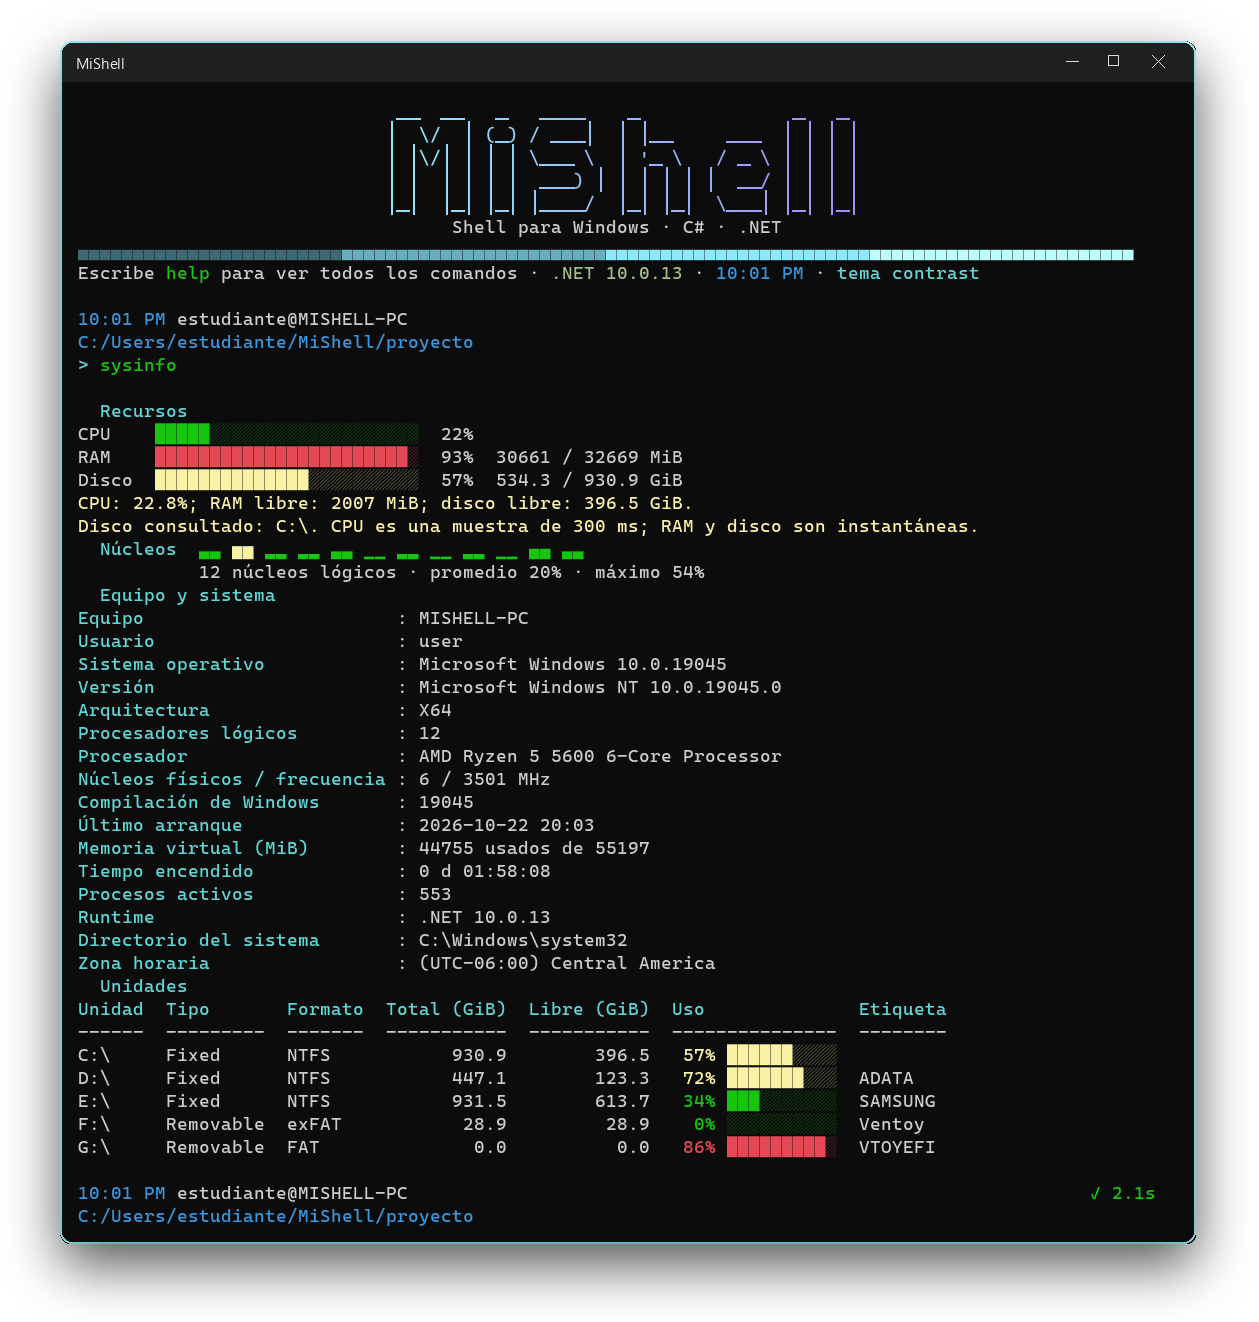
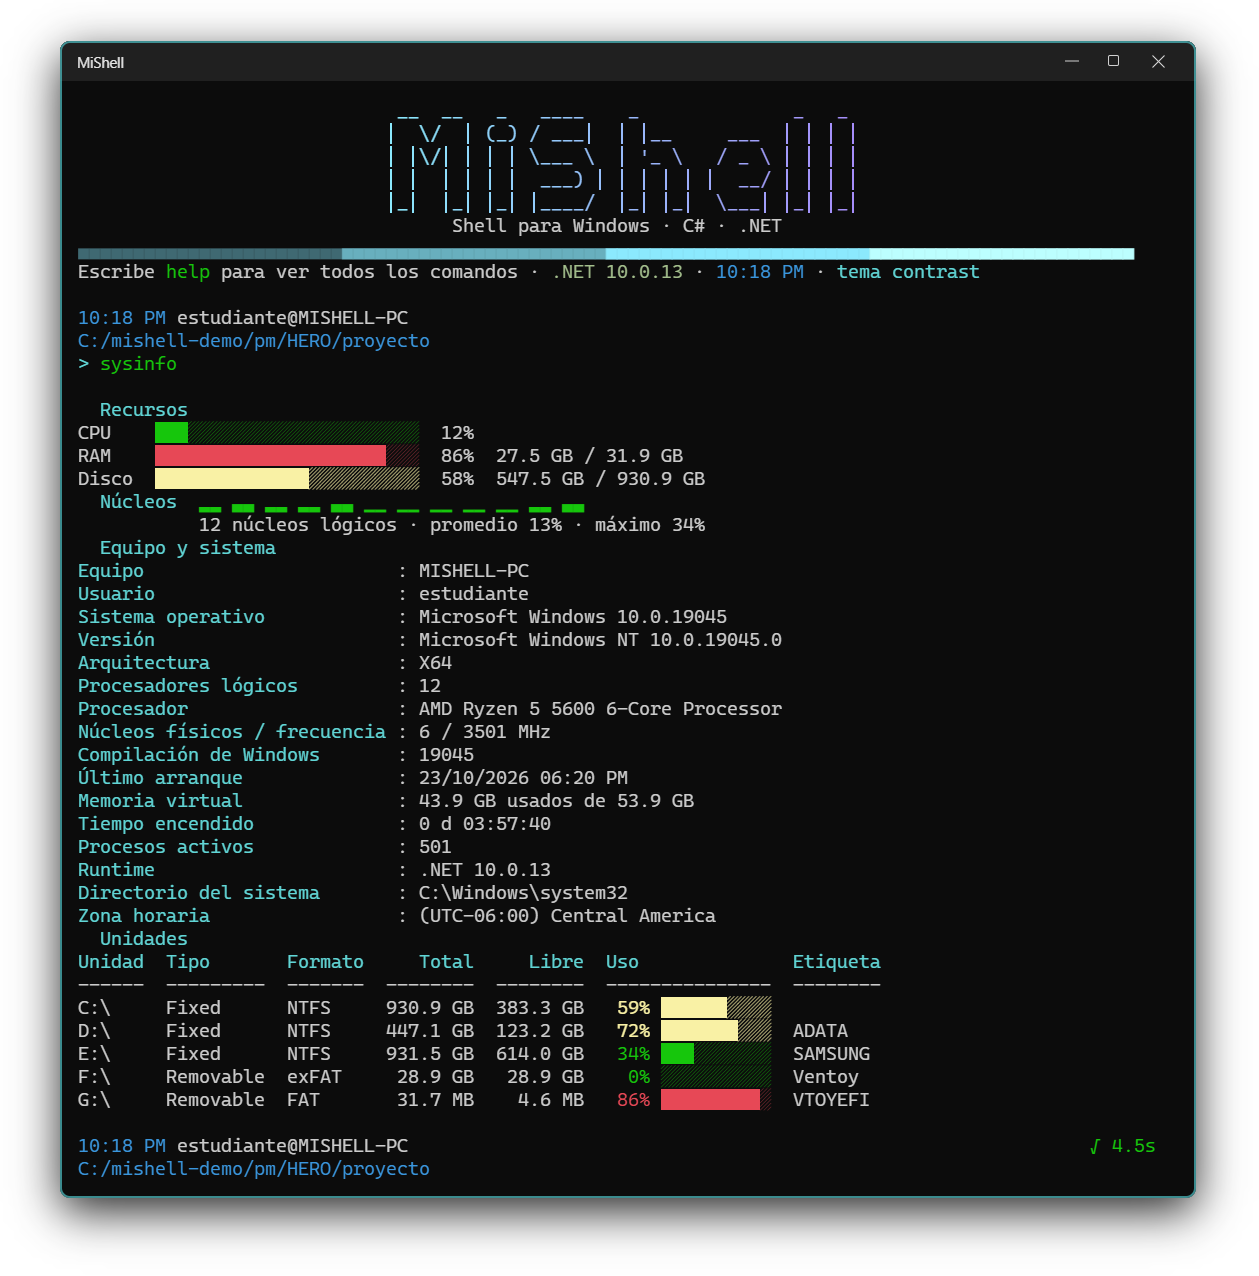
docs: README, validation and cover image updated for the new output and process control

diff --git a/README.md b/README.md
@@ -8,10 +8,12 @@ Ejecuta comandos internos y programas externos, conecta sus flujos con tuberías
 ## Características
 
 - **Ciclo interactivo completo:** prompt de tres líneas con hora, ruta y código de salida, historial, autocompletado con Tab y resaltado del comando mientras se escribe.
-- **Procesos reales:** crea, conecta y espera procesos de Windows; `trace on` muestra cada paso (crear, esperar, código de salida).
+- **Procesos reales:** crea, conecta y espera procesos de Windows; `trace on` muestra cada paso (crear, esperar, código de salida). `start`, `suspend`, `resume` y `kill` controlan los trabajos, y `ps` y `top` muestran el estado de cada proceso.
+- **Salida legible:** fechas `dd/MM/yyyy` con hora de 12 horas, tamaños siempre con unidad (B, KB, MB, GB) y mensajes que confirman lo ocurrido (`✓ Creado saludo.txt (11 B)`).
+- **Ayuda con ejemplos:** `help` muestra cada comando con su nombre en Linux y en Windows (`ls`/`dir`, `cat`/`type`, `rm`/`del`), `help <comando>` incluye ejemplos y `help pipes`, `help redirect`, `help jobs` y `help vars` explican los temas.
 - **Sintaxis de shell:** tuberías `|`, redirecciones `>`, `>>`, `<`, operadores `&&` y `||`, segundo plano con `&`, variables y scripts con `source`.
 - **Comandos internos detallados:** `ls`, `ps`, `top`, `sysinfo`, `which`, `cat` y otros entregan al menos la información de sus equivalentes de Windows, con barras y colores por tema.
-- **Código modular:** seis proyectos, un archivo por comando y 110 pruebas automatizadas.
+- **Código modular:** seis proyectos, un archivo por comando y 127 pruebas automatizadas.
 
 Shell educativo de Windows escrito en C#/.NET 10. Ejecuta comandos internos y programas externos, conecta sus flujos de entrada/salida y administra trabajos básicos.
 
@@ -31,6 +33,8 @@ help ps
 help syntax
 ls -l
 ps 10 --name dotnet --sort ram
+top
+start notepad.exe
 theme contrast
 source demo.mish
 exit
@@ -44,21 +48,24 @@ Cada comando interno se comparó con su equivalente de `cmd` y PowerShell para q
 
 | MiShell | Equivalente | Información que entrega |
 |---|---|---|
-| `ls` / `dir` | `dir`, `Get-ChildItem` | Modo (`d a r h s l`), fecha, tamaño, nombre, totales y espacio libre. `-l` añade creación y acceso; `-a` ocultos; `-h` tamaños legibles; `-R` recursivo; `-t`/`-S`/`-r` orden; patrones como `*.txt`. |
-| `ps` | `Get-Process` | PID, hilos, handles, sesión, CPU, memoria privada, RAM e inicio. `ps --id PID` muestra ruta, versión, prioridad y memoria pico/virtual. |
+| `ls` / `dir` | `dir`, `Get-ChildItem` | Modo (`d a r h s l`), fecha `dd/MM/yyyy` con hora de 12 horas, tamaño con unidad, nombre, totales y espacio libre. `-l` añade creación y acceso; `-a` ocultos; `-b` bytes exactos; `-R` recursivo; `-t`/`-S`/`-r` orden; patrones como `*.txt`. |
+| `ps` | `Get-Process`, `tasklist` | PID, estado (Ejecutando, En espera, Suspendido), hilos, CPU, memoria con unidad, % de RAM e inicio de todos los procesos legibles; `-l` añade handles, sesión y memoria privada; `--chart` y `--group` grafican la memoria. `ps --id PID` muestra ruta, versión, prioridad, núcleos permitidos y memoria pico/virtual. |
+| `top` | `top`, `htop` | Monitor en vivo: carga por núcleo, CPU y RAM con historial, procesos por estado y tabla que llena la ventana; `c m p n e` ordenan y `q` sale; `--pid N` vigila un proceso. |
+| `start`, `suspend`, `resume`, `kill`, `jobs`, `fg` | `Start-Process`, `Suspend-Process`, `taskkill`, `Get-Job` | Lanza un programa como trabajo, lo pausa y reanuda (equivalente de SIGSTOP/SIGCONT) y lo espera o termina. |
 | `sysinfo` | `systeminfo` | CPU, RAM y disco con barras, histograma de carga por núcleo, barras de uso por unidad, más equipo, SO, procesador, núcleos, arranque, memoria virtual y todas las unidades. |
 | `which` | `Get-Command`, `where` | Tipo (interno/externo), versión, tamaño, fecha y ruta; `-a` todas las coincidencias. |
 | `cat` / `type` | `type`, `Get-Content` | Varios archivos con encabezado, `-n`, `--head`, `--tail`. |
-| `mkdir` | `mkdir`, `New-Item` | Crea la ruta completa y muestra una tabla con lo creado. |
-| `cd`, `pwd` | `cd`, `Set-Location`, `Get-Location` | `cd -`, `/d`, rutas con espacios; `pwd -v` añade unidad y espacio libre. |
+| `mkdir` / `md` | `mkdir`, `New-Item` | Crea la ruta completa y muestra una tabla con lo creado. |
+| `rm` / `del`, `rmdir` / `rd` | `del`, `rd /s`, `Remove-Item` | Elimina archivos, patrones y carpetas; pide confirmación para carpetas con contenido (salvo `-f`) y nunca borra la raíz de una unidad ni la carpeta actual. |
+| `cd`, `pwd` | `cd`, `Set-Location`, `Get-Location` | `cd -`, `/d`, rutas con espacios; `pwd` muestra un encabezado `Path` como PowerShell y `pwd -v` añade unidad y espacio libre. |
 | `set`, `unset` | `set`, `Remove-Item Env:` | Lista, filtra por prefijo, define (con valor anterior) y elimina. |
-| `history`, `time`, `version`, `kill`, `jobs` | `history`, `Get-Date`, `ver`, `taskkill`, `Get-Job` | Historial numerado y filtrable; fecha, UTC, ISO y semana; versión de runtime y SO; varios objetivos con nombre y PID; inicio y duración. |
+| `history`, `time`, `version` | `history`, `Get-Date`, `ver` | Historial numerado y filtrable; fecha, UTC, ISO y semana; versión de MiShell, runtime y SO junto con el equipo de desarrollo y la asignatura. |
 
 ## Formato de salida y estructura del código
 
-- Las tablas y listas se muestran por defecto en **columnas alineadas** como `dir` y `Get-ChildItem` (encabezado subrayado, sin bordes, directorios resaltados). `format boxed` cambia a tablas con bordes y `format classic` vuelve; la elección se guarda en `settings.json`. Con la salida redirigida se escribe texto separado por tabuladores.
+- Las tablas y listas se muestran por defecto en **columnas alineadas** como `dir` y `Get-ChildItem` (encabezado subrayado, sin bordes, directorios resaltados). `format boxed` cambia a tablas con bordes y `format classic` vuelve; la elección se guarda en `settings.json`. Con la salida redirigida se escribe texto separado por tabuladores. Tras una redirección (`>` o `>>`) MiShell informa si el archivo se creó, se reemplazó o se amplió, y si no pudo escribirlo explica por qué.
 - En una terminal interactiva se deja una línea en blanco entre la orden, su salida y el siguiente prompt.
-- `top` es un monitor en vivo (CPU, RAM y procesos con más memoria) que se cierra con `q` o `Esc`.
+- `top` es un monitor en vivo (núcleos, CPU y RAM con historial, estados y procesos) que se cierra con `q` o `Esc`. Windows no informa en qué núcleo corre cada proceso, así que la columna Núcleos indica cuántos núcleos equivalentes consume.
 - `MiShell.Commands` tiene un archivo por comando, agrupados en `Files`, `Navigation`, `Processes`, `Session`, `SystemInfo` y `Help`. El texto de `help` está en `Help/help.json` (recurso embebido).
 - Las tuberías externas las gestiona `MiShell.Core/Execution/ExternalPipeline.cs`, que es dueña de los procesos, los archivos y las copias de flujos y los libera siempre en el mismo orden.
 
@@ -75,14 +82,14 @@ Cada tema asigna un color a un **rol** y el mismo rol se usa en todo el programa
 
 | Rol | Dónde aparece (tema `contrast`) |
 |---|---|
-| Ruta (`Path`) | Rutas del prompt, `pwd`, `cd`, `which` y `mkdir` (azul cian) |
+| Ruta (`Path`) | Rutas del prompt, `cd`, `which` y `mkdir` (azul cian); `pwd` usa el color de directorios |
 | Hora (`Time`) | Hora de 12 horas con AM/PM en el prompt, el banner, `top` y `jobs` (cian oscuro) |
 | Equipo (`Host`) | `usuario@equipo` (gris) |
 | Etiqueta (`Tag`) | Nombre del tema en el banner (gris suave) |
 | Comando (`Command`) | Nombres en `help`, `which`, `set` y el comando válido mientras se escribe (verde) |
 | Directorio (`Directory`) | Carpetas en `ls` (cian); ejecutables en verde, ocultos y enlaces atenuados |
 | Texto secundario (`Muted`) | Descripciones, fechas y tamaños (gris) |
-| Estado | Éxito en verde, error en rojo, avisos en amarillo; `ps` marca la RAM sobre 500 MiB y sobre 1 GiB |
+| Estado | Éxito en verde, error en rojo, avisos en amarillo; `ps` marca la RAM sobre 500 MB y sobre 1 GB y colorea el estado del proceso |
 
 Los temas no cambian el fondo de tu terminal. Los colores son de la paleta de 16 tonos del terminal, así que combinan con el esquema que uses, y el color siempre se acompaña de texto, símbolos y códigos. La preferencia existente del usuario se conserva. `NO_COLOR=1` desactiva el color de MiShell; los programas externos conservan su propio comportamiento. Los archivos redirigidos no reciben colores ni bordes.
 
@@ -96,7 +103,11 @@ cmd.exe /c echo Hola | findstr.exe Hola > coincidencias.txt
 powershell.exe -NoProfile -Command "Start-Sleep -Seconds 2" &
 jobs
 fg 1
+start powershell.exe -NoProfile -Command "Start-Sleep -Seconds 60"
+suspend %1
+resume %1
 kill %1
+rm saludo.txt
 set SALUDO="Hola mundo"
 echo $SALUDO
 ```
@@ -104,7 +115,7 @@ echo $SALUDO
 - `>` reemplaza el archivo; `>>` añade contenido; `<` lee entrada. Se admite una entrada y una salida por comando. Se rechaza escribir sobre el archivo de entrada o usar dos destinos iguales en una tubería.
 - Las tuberías conectan programas externos y un comando interno puede ser la **primera etapa** (`ls | findstr.exe txt`, `echo Hola | findstr.exe Hola`); un interno en otra posición se rechaza con una explicación. `&` sigue limitado a programas externos. Los internos admiten salida a archivo; `cat`/`type` también entrada desde archivo. `trace on` muestra la creación, espera y fin de cada proceso.
 - `&` solo puede terminar una tubería; no se combina con `&&`/`||`. `fg` espera toda la tubería y devuelve el código del último proceso. Los trabajos fallidos muestran código o causa; un fallo de transferencia termina los procesos y libera sus flujos.
-- `kill %1` identifica un job; `kill 1234` identifica un PID. Salir cierra los trabajos que todavía pertenecen a MiShell.
+- `kill %1` identifica un job; `kill 1234` identifica un PID; `suspend` y `resume` aceptan lo mismo. Salir cierra los trabajos que todavía pertenecen a MiShell.
 - `&&`/`||` condicionan la ejecución según el código previo. Las variables se expanden al analizar la línea: define y utiliza una variable en líneas separadas.
 - Las comillas dobles expanden variables; las simples conservan texto literal. La sintaxis es un subconjunto de la de una shell: variables, comillas, operadores y redirecciones, sin escape con barra invertida ni sustitución de comandos.
 - `.cmd`/`.bat` requieren `cmd.exe /c archivo.cmd`; `.ps1` requiere `powershell.exe -File archivo.ps1`.
@@ -129,7 +140,7 @@ pwsh -File .\scripts\verify.ps1 -IncludeSystemInfo
 
 El script usa una carpeta temporal y un perfil aislado, comprueba archivos y salidas, limita la duración de la demo y guarda resultados en `artifacts/validation/`, excluido de Git. `-SkipBuild` reutiliza una compilación Release ya realizada.
 
-Resultado local del 22 de octubre de 2026: **110 pruebas, 0 fallos; Release con 0 advertencias; demo 12/12**. El detalle está en [validación](docs/validation.md).
+Resultado local del 23 de octubre de 2026: **127 pruebas, 0 fallos; Release con 0 advertencias; demo 12/12**. El detalle está en [validación](docs/validation.md).
 
 ## Organización
 

diff --git a/docs/validation.md b/docs/validation.md
@@ -9,7 +9,7 @@ Ejecutada el **8 de octubre de 2026 (America/Guatemala)**. Windows 10, versión 
 | Build inicial Debug | 0 errores, 0 advertencias |
 | Suite inicial | 14 aprobadas, 0 fallidas |
 | Build completo final Release | 0 errores, 0 advertencias |
-| Suite final Release | **110 aprobadas, 0 fallidas, 0 omitidas** |
+| Suite final Release | **127 aprobadas, 0 fallidas, 0 omitidas** (23 de octubre de 2026) |
 | Demo aislada con `-IncludeSystemInfo` | **12/12 comprobaciones aprobadas**, salida de error vacía |
 | Edición en pseudoterminal | Tab completó pwd y una ruta entre comillas con espacios; flecha arriba recuperó una orden; clear, temas, orden larga y Ctrl+Z funcionaron |
 | Ctrl+C en pseudoterminal | Canceló `Start-Sleep -Seconds 30`, mostró código 130 y permitió ejecutar otra orden |
@@ -24,7 +24,8 @@ La pseudoterminal comprueba comportamiento de entrada/salida. No es una captura 
 - Jobs: búsqueda inexistente, espera real de una tubería, código de salida y terminación por `%id`.
 - Ejecución: contenido real de archivos de salida, anexado, stdin, tablas, tres etapas, consumidor que cierra antes, comando posterior inexistente y cancelación con comprobación de finalización del PID.
 - Sesiones de aplicación: EOF sin `exit`, código de salida, errores recuperables, ayuda legible, scripts con ubicación y conservación del fallo, ciclos de scripts.
-- Listados y procesos: tamaño y fecha, filtro sin resultados y rechazo de opciones inválidas.
+- Listados y procesos: tamaño con unidad y fecha de 12 horas, filtro sin resultados y rechazo de opciones inválidas.
+- Salida y control: formatos de tamaño, fecha y duración, encabezado `Path` de `pwd`, mensajes de redirección (creado, añadido, reemplazado y error), `rm`/`rmdir` con comodines, protecciones y confirmación, ayuda completa con ejemplos para cada comando, `version` con el equipo, y `suspend`/`resume` sobre un proceso real.
 
 Se desactiva la ejecución paralela de este proyecto de pruebas porque algunos casos utilizan `Console.In` y el contexto de consola del mismo proceso.
 
